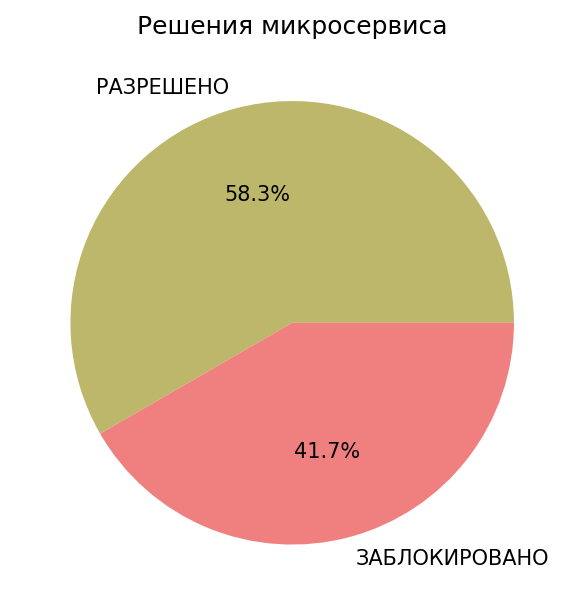
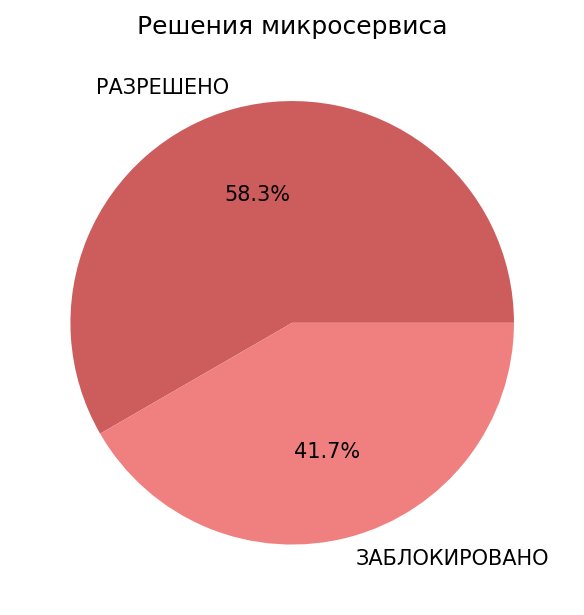
Изменения3

Changed region(s): [[0.1233, 0.1545, 0.8938, 0.7106]]

diff --git a/main.py b/main.py
@@ -129,7 +129,7 @@ def save_charts(res):
         st[r["status"]] += 1
     fig, ax = plt.subplots()
     ax.pie(
-        st.values(), labels=st.keys(), autopct="%1.1f%%", colors=["#BDB76B", "#F08080"]
+        st.values(), labels=st.keys(), autopct="%1.1f%%", colors=["#CD5C5C", "#F08080"]
     )
     ax.set_title("Решения микросервиса")
     fig.savefig("status_chart.png", dpi=150, bbox_inches="tight")
